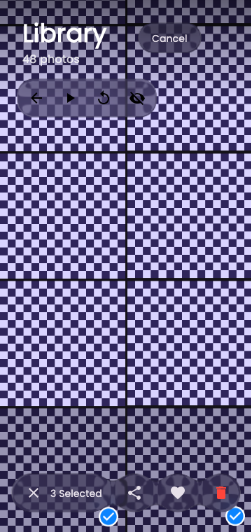
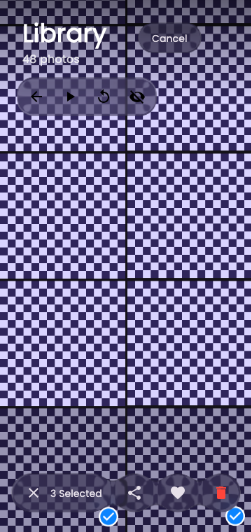
Place the showcase demo controls below the measured title

Changed region(s): [[0.0837, 0.1203, 0.6135, 0.2406]]

diff --git a/sample/shared/src/commonMain/kotlin/dev/chrisbanes/haze/sample/GlassContainerShowcaseSample.kt b/sample/shared/src/commonMain/kotlin/dev/chrisbanes/haze/sample/GlassContainerShowcaseSample.kt
@@ -33,11 +33,13 @@ import androidx.compose.foundation.layout.Column
 import androidx.compose.foundation.layout.PaddingValues
 import androidx.compose.foundation.layout.Row
 import androidx.compose.foundation.layout.WindowInsets
+import androidx.compose.foundation.layout.WindowInsetsSides
 import androidx.compose.foundation.layout.aspectRatio
 import androidx.compose.foundation.layout.fillMaxSize
 import androidx.compose.foundation.layout.fillMaxWidth
 import androidx.compose.foundation.layout.height
 import androidx.compose.foundation.layout.offset
+import androidx.compose.foundation.layout.only
 import androidx.compose.foundation.layout.padding
 import androidx.compose.foundation.layout.safeDrawing
 import androidx.compose.foundation.layout.size
@@ -83,6 +85,7 @@ import androidx.compose.ui.input.pointer.PointerEventType
 import androidx.compose.ui.input.pointer.pointerInput
 import androidx.compose.ui.layout.ContentScale
 import androidx.compose.ui.layout.layout
+import androidx.compose.ui.layout.onSizeChanged
 import androidx.compose.ui.platform.LocalDensity
 import androidx.compose.ui.platform.testTag
 import androidx.compose.ui.text.font.FontWeight
@@ -268,6 +271,8 @@ public fun GlassContainerShowcaseSampleContent(
   modifier: Modifier = Modifier,
 ) {
   val hazeState = rememberHazeState()
+  // Where the title block ends, which grows with the user's font size.
+  var titleBottom by remember { mutableStateOf(0.dp) }
 
   BoxWithConstraints(modifier.fillMaxSize().background(MaterialTheme.colorScheme.surface)) {
     // Any press in the scene hands control to the user. The demo controls sit outside this box,
@@ -289,6 +294,7 @@ public fun GlassContainerShowcaseSampleContent(
       PhotoLibrary(
         hazeState = hazeState,
         state = state,
+        onTitleBottomChange = { titleBottom = it },
         modifier = Modifier.fillMaxSize(),
       )
 
@@ -317,10 +323,17 @@ public fun GlassContainerShowcaseSampleContent(
     val controlsBesideBar = maxWidth >= 900.dp
     AnimatedVisibility(
       visible = !state.recordingMode,
-      modifier = Modifier
-        .align(if (controlsBesideBar) Alignment.BottomStart else Alignment.TopStart)
-        .windowInsetsPadding(WindowInsets.safeDrawing)
-        .padding(start = 24.dp, top = if (controlsBesideBar) 24.dp else 112.dp, end = 24.dp, bottom = 24.dp),
+      modifier = if (controlsBesideBar) {
+        Modifier
+          .align(Alignment.BottomStart)
+          .windowInsetsPadding(WindowInsets.safeDrawing)
+          .padding(24.dp)
+      } else {
+        Modifier
+          .align(Alignment.TopStart)
+          .windowInsetsPadding(WindowInsets.safeDrawing.only(WindowInsetsSides.Horizontal))
+          .padding(start = 24.dp, top = titleBottom + 12.dp)
+      },
     ) {
       DemoChrome(
         hazeState = hazeState,
@@ -339,8 +352,10 @@ public fun GlassContainerShowcaseSampleContent(
 private fun PhotoLibrary(
   hazeState: HazeState,
   state: GlassContainerShowcaseState,
+  onTitleBottomChange: (Dp) -> Unit,
   modifier: Modifier = Modifier,
 ) {
+  val density = LocalDensity.current
   Box(modifier.hazeSource(hazeState)) {
     LazyVerticalGrid(
       columns = GridCells.Adaptive(minSize = 176.dp),
@@ -404,24 +419,31 @@ private fun PhotoLibrary(
     }
 
     // A scrim keeps the title readable over any photo, in both themes.
-    Column(
+    Box(
       Modifier
         .fillMaxWidth()
         .background(Brush.verticalGradient(listOf(Color.Black.copy(alpha = 0.55f), Color.Transparent)))
-        .windowInsetsPadding(WindowInsets.safeDrawing)
-        .padding(start = 32.dp, top = 24.dp, end = 32.dp, bottom = 48.dp),
+        .padding(bottom = 48.dp),
     ) {
-      Text(
-        "Library",
-        color = Color.White,
-        style = MaterialTheme.typography.displaySmall,
-        fontWeight = FontWeight.Bold,
-      )
-      Text(
-        "$PHOTO_COUNT photos",
-        color = Color.White.copy(alpha = 0.8f),
-        style = MaterialTheme.typography.titleMedium,
-      )
+      Column(
+        Modifier
+          // Measured before the insets and padding, so the size is the title's bottom edge.
+          .onSizeChanged { onTitleBottomChange(with(density) { it.height.toDp() }) }
+          .windowInsetsPadding(WindowInsets.safeDrawing)
+          .padding(start = 32.dp, top = 24.dp, end = 32.dp),
+      ) {
+        Text(
+          "Library",
+          color = Color.White,
+          style = MaterialTheme.typography.displaySmall,
+          fontWeight = FontWeight.Bold,
+        )
+        Text(
+          "$PHOTO_COUNT photos",
+          color = Color.White.copy(alpha = 0.8f),
+          style = MaterialTheme.typography.titleMedium,
+        )
+      }
     }
   }
 }

diff --git a/sample/screenshot-tests/src/jvmTest/kotlin/dev/chrisbanes/haze/GlassContainerShowcaseDesktopScreenshotTest.kt b/sample/screenshot-tests/src/jvmTest/kotlin/dev/chrisbanes/haze/GlassContainerShowcaseDesktopScreenshotTest.kt
@@ -23,16 +23,23 @@ import kotlin.test.Test
 
 class GlassContainerShowcaseDesktopScreenshotTest : ScreenshotTest() {
   @Test fun showcaseDark() = runScreenshotTest(size = Size(1280f, 720f)) {
-    captureGlassContainerShowcase(isDark = true) { content -> CheckerboardPhotos(isDark = true, content) }
+    captureGlassContainerShowcase(isDark = true) { content -> CheckerboardPhotos(isDark = true, content = content) }
   }
 
   @Test fun showcaseLight() = runScreenshotTest(size = Size(1280f, 720f)) {
-    captureGlassContainerShowcase(isDark = false) { content -> CheckerboardPhotos(isDark = false, content) }
+    captureGlassContainerShowcase(isDark = false) { content -> CheckerboardPhotos(isDark = false, content = content) }
   }
 
   // The sample is also reachable on phones, where the bar shrinks to fit.
   @Test fun showcasePhoneDark() = runScreenshotTest(size = Size(360f, 760f)) {
-    captureGlassContainerShowcase(isDark = true) { content -> CheckerboardPhotos(isDark = true, content) }
+    captureGlassContainerShowcase(isDark = true) { content -> CheckerboardPhotos(isDark = true, content = content) }
+  }
+
+  // With large text the title grows, and the demo controls must stay below it.
+  @Test fun showcasePhoneLargeTextDark() = runScreenshotTest(size = Size(360f, 760f)) {
+    captureGlassContainerShowcase(isDark = true) { content ->
+      CheckerboardPhotos(isDark = true, fontScale = 2f, content = content)
+    }
   }
 }
 
@@ -41,10 +48,14 @@ class GlassContainerShowcaseDesktopScreenshotTest : ScreenshotTest() {
 // follows the system appearance, so match it to the sample's theme.
 @OptIn(ExperimentalCoilApi::class)
 @Composable
-private fun CheckerboardPhotos(isDark: Boolean, content: @Composable () -> Unit) {
+private fun CheckerboardPhotos(
+  isDark: Boolean,
+  fontScale: Float = 1f,
+  content: @Composable () -> Unit,
+) {
   CompositionLocalProvider(
     LocalSystemTheme provides if (isDark) SystemTheme.Dark else SystemTheme.Light,
-    LocalDensity provides Density(1f),
+    LocalDensity provides Density(1f, fontScale),
     LocalInspectionMode provides true,
     LocalAsyncImagePreviewHandler provides AsyncImagePreviewHandler { checkerboardImage() },
     content = content,
